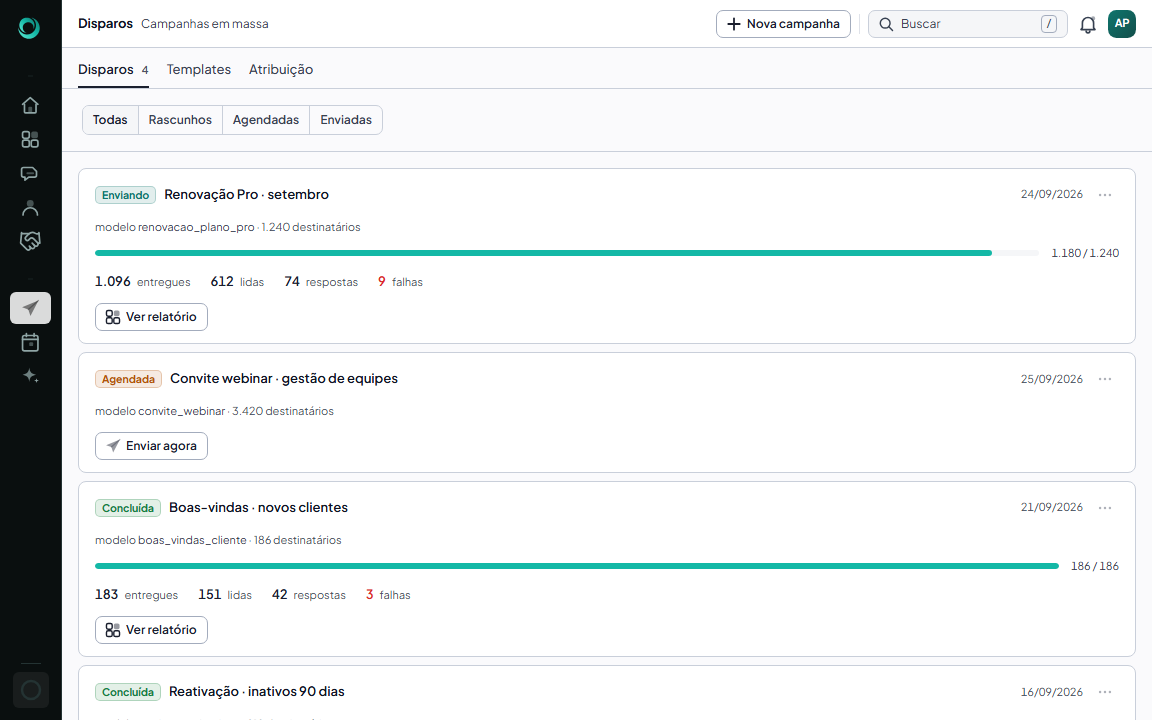
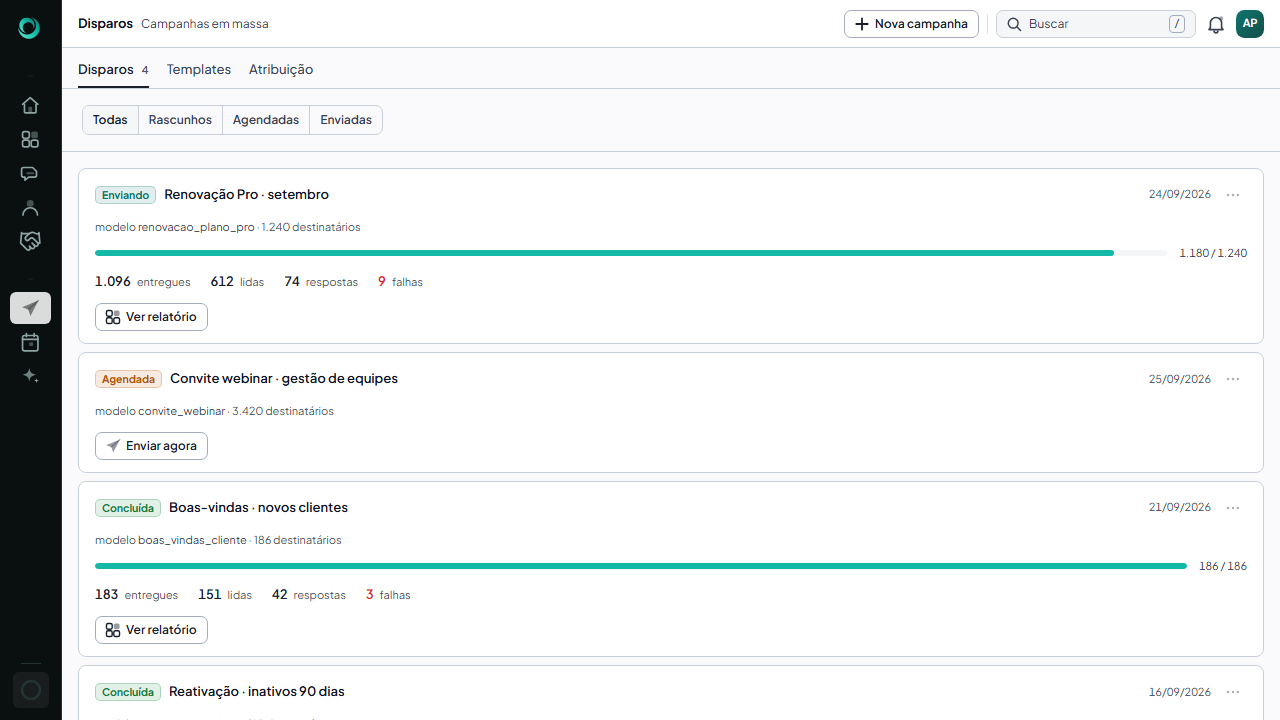
feat(SCRUM-1097): Hero — tela principal em 16:9 (1280x720) e palco mais largo
Em 1152 o selo 'Agente IA no controle' e os botões do cabeçalho do chat empurravam o nome do contato para fora. Palco 1560 de desenho; pôsteres recapturados em 1280x720.

diff --git a/src/components/landing/stage/hero/HeroPalco.tsx b/src/components/landing/stage/hero/HeroPalco.tsx
@@ -52,12 +52,14 @@ const ConteudoNegocio = lazy(() => carregar().then((m) => ({ default: m.Conteudo
 
 // ─── Geometria do palco (coordenadas de desenho) ─────────────────────────────
 
-const APP = { w: 1152, h: 720 }
+// 16:9 (1280 × 720): em 1152 o selo "Agente IA no controle" e os botões do
+// cabeçalho do chat empurravam o nome do contato para fora (medido 24/09).
+const APP = { w: 1280, h: 720 }
 const APP_CELULAR = { w: 390, h: 760 }
 /** Tela do aparelho satélite: o app mobile a 60 %. */
 const TELA_APARELHO = { escala: 0.6, w: APP_CELULAR.w * 0.6, h: APP_CELULAR.h * 0.6 }
-const PALCO = { w: 1480, h: 812 }
-const ANCORA = { x: 158, y: 22 }
+const PALCO = { w: 1560, h: 812 }
+const ANCORA = { x: 134, y: 22 }
 
 /**
  * DIAGONAIS — decisão do PO (24/09): as duas janelas satélite ficam sempre em
@@ -69,11 +71,11 @@ const ANCORA = { x: 158, y: 22 }
  */
 const CANTOS = {
   supEsq: { x: 0, y: 24, w: 372, origem: '100% 100%' },
-  supDir: { x: 1108, y: 24, w: 372, origem: '0% 100%' },
+  supDir: { x: 1188, y: 24, w: 372, origem: '0% 100%' },
   infEsq: { x: 0, y: 452, w: 372, origem: '100% 0%' },
   // O card do negócio é baixo (~190 px): mais para baixo, para encostar na
   // quina da âncora e a diagonal ficar nítida.
-  infDir: { x: 1108, y: 556, w: 372, origem: '0% 0%' },
+  infDir: { x: 1188, y: 556, w: 372, origem: '0% 0%' },
 } satisfies Record<string, PoseSatelite>
 
 /** O aparelho (WhatsApp da cliente) mora no canto inferior esquerdo. */

diff --git a/src/components/landing/sections/Hero.tsx b/src/components/landing/sections/Hero.tsx
@@ -69,7 +69,7 @@ export function Hero() {
            travado em 1120, sobrava pouco para a conversa justamente quando o
            painel abre. O texto continua em 1120 — linha de leitura não deve
            acompanhar o palco. */
-        className="reveal mx-auto mt-7 sm:mt-8 w-full max-w-[1120px] xl:max-w-[1480px] px-4 sm:px-6 xl:px-3"
+        className="reveal mx-auto mt-7 sm:mt-8 w-full max-w-[1120px] xl:max-w-[1560px] px-4 sm:px-6 xl:px-3"
         style={{ ['--d' as string]: '270ms' }}
       >
         <HeroPalco />

diff --git a/docs/design/landing-2026/HERO-CICLOS.md b/docs/design/landing-2026/HERO-CICLOS.md
@@ -744,7 +744,7 @@ mesmo tempo, mantendo o padrão.
   `public/hero/demo-poster-{escuro,claro}.png`, com crossfade para o app vivo.
   Para regenerar (dev server em :3011, Windows):
   `msedge --headless --disable-gpu --hide-scrollbars --user-data-dir=<pasta>
-  --window-size=1152,720 --virtual-time-budget=15000 --screenshot=<arquivo>.png
+  --window-size=1280,720 --virtual-time-budget=15000 --screenshot=<arquivo>.png
   "http://localhost:3011/demo.html?rota=%2Fcampaigns&tema=dark"` (e `tema=light`).
   O Edge devolve na hora e grava o arquivo alguns segundos depois.
 - **Texto centrado** no eixo do palco (título, lead, CTAs), como a referência.
